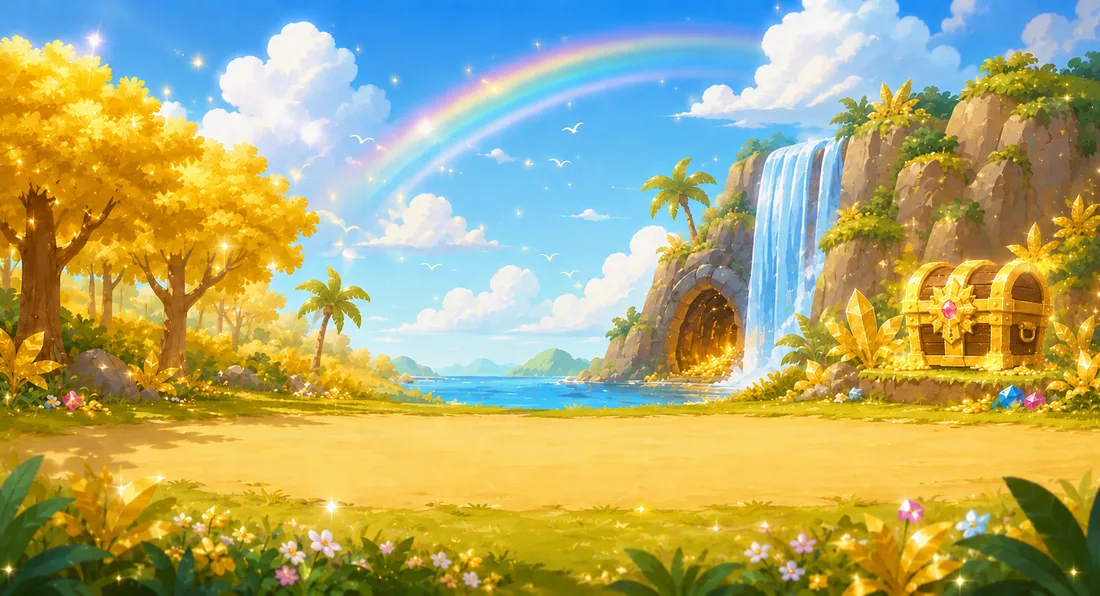
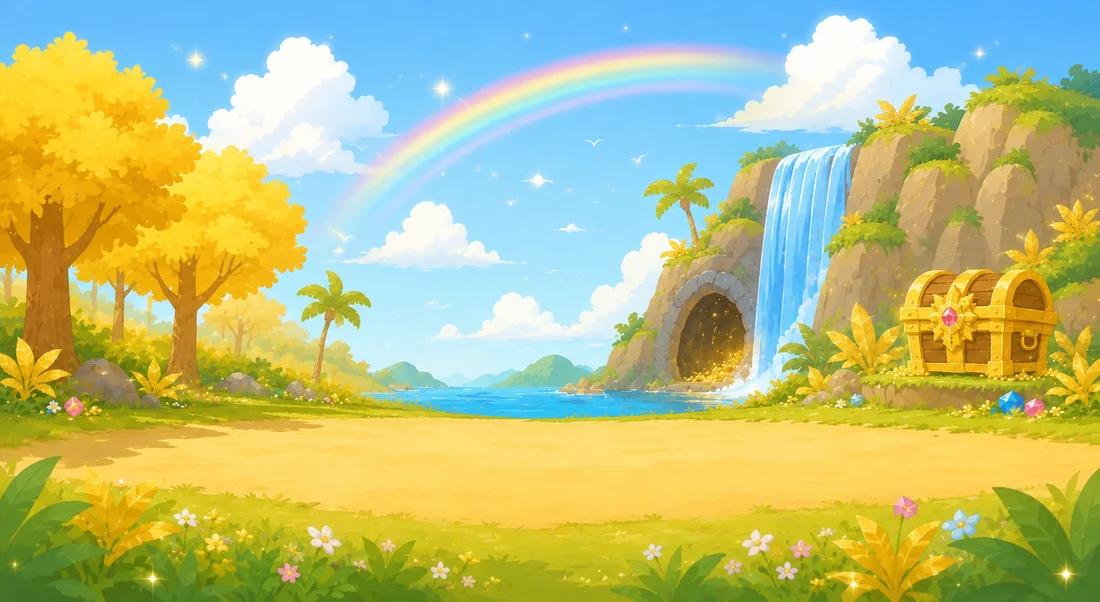
feat: 지도 이벤트 손님 3종(나비·거북이·무지개) — 그날만 나타남
- 사용자 원화 3장을 map-ev/ 로 탑재 (trim·halo 보정, 리사이즈 후 13~14KB)
- 지도 원화에 없는 손님이라 '평소엔 없다가 그 이벤트가 걸린 날에만' 그린다 (사용자 확정)
  긴 지도·짧은 지도 각각 자리(evImg) 지정 — 무지개는 하늘, 나비는 풀밭, 거북이는 해변
- 무지개는 동물이 아니라 👋 말풍선을 붙이지 않고 살랑이는 연출만
- 애니메이션은 위치를 건드리지 않는 전용 키프레임(amGuest·amGuestSky)으로 분리
  (기존 amWave는 말풍선용 translate가 들어 있어 그림에 쓰면 자리가 틀어진다)
- 이로써 이벤트 8종 전부 지도에 표현된다 (기존 5종은 원화에 그려진 동물 + 👋)

Claude-Session: https://claude.ai/code/session_018maNuYqDfFyRSe9uKpZhPR

diff --git a/src/components/AdventureMap.jsx b/src/components/AdventureMap.jsx
@@ -71,6 +71,13 @@ const mkPointAt = (PATH, ASPECT) => {
 };
 
 // 긴 지도 (854×1842, 양피지 보물지도) — 길 중심선 % 좌표: 오두막 계단 → 해변 보물상자 앞
+/* 그날만 나타나는 이벤트 손님 그림 (사용자 원화 2026-07-31 — 원본 art-src/map-ev/) */
+const EV_IMG = {
+  ev_rainbow: "assets/map-ev/rainbow.webp",
+  ev_butterfly: "assets/map-ev/butterfly.webp",
+  ev_turtle: "assets/map-ev/turtle.webp",
+};
+
 const MAP_LONG = {
   bg: "assets/adventure-map.webp",
   ar: "853 / 1844",
@@ -80,6 +87,9 @@ const MAP_LONG = {
   cdy: 5.5,         // 진행도 칩(🔒 n/N)을 상자 아래로 내리는 오프셋 (지도 높이 % — 상자 안 가리게)
   // 원화에 그려진 동물들의 머리 위 좌표 (%) — 랜덤 이벤트 날 👋 말풍선 자리 (그리드 실측)
   animals: { ev_parrot: [79, 16.5], ev_monkey: [79.5, 38.5], ev_toucan: [15, 62.5], ev_boar: [76, 63.5], ev_frog: [13.5, 73.5] },
+  /* [사용자 확정 2026-07-31] 지도 원화에 없는 손님 3종은 '그날만' 그려 넣는다.
+     [중심x%, 중심y%, 폭%] — 평소엔 아예 없다가 그 이벤트가 걸린 날에만 나타난다. */
+  evImg: { ev_rainbow: [64, 6, 30], ev_butterfly: [28, 23, 9], ev_turtle: [30, 92, 12] },
   yr: 1844 / 853,
   bw: 18, fs: 17,   // 건물 표시 폭(%)·이모지 크기 (사용자 조정: 자리 8곳 배치에 맞춰 30% 축소)
   fpk: 46,          // 발자국 개수 (경로 등간격) — 적을수록 간격이 넓어짐 (사용자 조정: 64→46)
@@ -132,6 +142,7 @@ const MAP_SHORT = {
   cdy: 6.5,         // 진행도 칩(🔒 n/N)을 상자 아래로 내리는 오프셋 (지도 높이 % — 상자 안 가리게)
   // 원화에 그려진 동물들의 머리 위 좌표 (%) — 랜덤 이벤트 날 👋 말풍선 자리 (그리드 실측)
   animals: { ev_parrot: [81, 15.5], ev_monkey: [79.5, 39.5], ev_toucan: [16, 63.5], ev_boar: [73.5, 65], ev_frog: [15, 75] },
+  evImg: { ev_rainbow: [62, 5.5, 31], ev_butterfly: [28, 24, 10], ev_turtle: [30, 91, 13] },
   yr: 1652 / 952,
   bw: 21, fs: 19,   // 짧은 지도 건물 크기 (사용자 조정: v8 세트에서 약간 더 축소 23→21)
   fpk: 36,          // 발자국 개수 (경로 등간격) — 적을수록 간격이 넓어짐 (사용자 조정: 50→36)
@@ -349,6 +360,10 @@ export default function AdventureMap({ items = [], mode = "today", charEmoji = "
           50%{transform:translate(calc(-50% + var(--dx)), var(--up)) scale(1) rotateY(540deg);opacity:1}
           100%{transform:translate(calc(-50% + var(--dx2)), 24px) scale(.7) rotateY(1080deg);opacity:0}
         }
+        /* 그날만 나타나는 손님(나비·거북이·무지개) — 감싼 div가 위치를 잡으므로
+           애니메이션은 위치를 건드리지 않고 위아래로만 살짝 움직인다 */
+        @keyframes amGuest{ 0%,100%{transform:translateY(0)} 50%{transform:translateY(-3px)} }
+        @keyframes amGuestSky{ 0%,100%{opacity:.92;transform:translateY(0) scale(1)} 50%{opacity:1;transform:translateY(-2px) scale(1.02)} }
         @keyframes amWave{
           0%,100%{transform:translate(-50%,-100%) translateY(0)}
           50%{transform:translate(-50%,-100%) translateY(-3px)}
@@ -527,6 +542,29 @@ export default function AdventureMap({ items = [], mode = "today", charEmoji = "
           {doneCount >= n ? "🔓" : "🔒"} {doneCount}/{n}
         </div>
       )}
+
+      {/* ── 랜덤 이벤트 — 지도에 없던 손님 (나비·거북이·무지개) ──
+             [사용자 확정] 평소엔 지도에 없다가 그 이벤트가 걸린 날에만 나타난다.
+             무지개는 동물이 아니라 👋 말풍선을 붙이지 않는다. ── */}
+      {eventId && M.evImg?.[eventId] && EV_IMG[eventId] && (() => {
+        const [ax, ay, aw] = M.evImg[eventId];
+        const wave = eventId !== "ev_rainbow";
+        return (
+          <div style={{ position: "absolute", left: `${ax}%`, top: `${ay}%`, width: `${aw}%`,
+            transform: "translate(-50%,-50%)", pointerEvents: "none", zIndex: 2 }}>
+            <img src={EV_IMG[eventId]} alt="" draggable={false}
+              style={{ width: "100%", display: "block",
+                animation: wave ? "amGuest 2.4s ease-in-out infinite" : "amGuestSky 4s ease-in-out infinite",
+                filter: "drop-shadow(0 2px 5px rgba(60,80,40,0.3))" }} />
+            {wave && (
+              <div style={{ position: "absolute", left: "50%", bottom: "100%", transform: "translateX(-50%)", marginBottom: 2,
+                background: "rgba(255,251,240,0.95)", border: "1px solid rgba(155,114,74,0.4)",
+                borderRadius: 999, padding: "2px 6px", fontSize: 11, lineHeight: 1.3, whiteSpace: "nowrap",
+                boxShadow: "0 2px 5px rgba(60,80,40,0.25)" }}>👋</div>
+            )}
+          </div>
+        );
+      })()}
 
       {/* ── 랜덤 이벤트 — 오늘 만난 동물 머리 위 👋 말풍선 (사용자 확정) ──
              이벤트는 날짜 고정 시드라 하루 종일 같은 동물이 인사한다. 발견 여부와

diff --git a/src/data/expeditions.js b/src/data/expeditions.js
@@ -220,7 +220,7 @@ export const EXPEDITIONS = {
     /* Ch12 보물섬 — 섬 안 모랫길을 지나 보물상자로. 배경이 육지라 배 대신 육상·하늘 탈것 */
     mounts:["horse","deer","unicorn","dragon","owl","carpet"],
     pose:"walk", item:"map", goal:"🎁", goalImg:"assets/expedition/flag/yellow.webp",   // 보물 = 별 깃발
-    bgImg:"assets/expedition/bg-treasure.webp",   // 사용자 배경 원화 (황금 보물섬·무지개·폭포 — 원본 art-src)
+    bgImg:"assets/expedition/bg-treasure.webp",   // 사용자 배경 원화 v2 (넓은 모랫길·무지개·동굴 폭포 — 원본 art-src)
     scene:{ sky:["#7EC8F0","#D9EFB0"], ground:["#EBD188","#D6B863"], groundH:34,
       /* 앞쪽 모랫길을 따라 왼쪽 황금나무 아래에서 오른쪽 보물상자 쪽으로 (살짝 오르막) */
       /* 탈것 그림이 가로로 넓어 x0/xi를 안쪽으로 (왼쪽 끝에서 잘리지 않게) */

diff --git a/art-src/README.md b/art-src/README.md
@@ -166,8 +166,11 @@ halo가 외곽선을 흐려서 생긴 착시였다.
 | expedition/bg/bg-cave-v2-src.webp | 동굴 배경 v2 (1717×916 — 권장 비율로 재제작, 출구 아치 안전영역 안, 현행) | expedition/bg-cave.webp |
 | expedition/bg/bg-meadow-src.webp | 초원 배경 (9번째 탐험 '초원을 달리자!' — 양·풍차) | expedition/bg-meadow.webp |
 | expedition/bg/bg-skyisle-src.webp | 하늘섬 배경 (1717×916 — 성 있는 부유섬·열기구·무지개, 10번째 탐험 현행) | expedition/bg-skyisle.webp |
+| map-ev/butterfly-src.webp | 지도 이벤트 손님 나비 — 이벤트 날에만 지도에 나타남 (ev_butterfly) | map-ev/butterfly.webp |
+| map-ev/turtle-src.webp | 지도 이벤트 손님 거북이 — 이벤트 날에만 지도에 나타남 (ev_turtle) | map-ev/turtle.webp |
+| map-ev/rainbow-src.webp | 지도 이벤트 손님 무지개 — 이벤트 날에만 지도 하늘에 나타남 (ev_rainbow, 👋 없음) | map-ev/rainbow.webp |
 | expedition/bg/bg-snow-src.webp | 설원 배경 (1717×916 — 오로라·눈사람·통나무집·얼음 호수, 8번째 탐험) | expedition/bg-snow.webp |
-| expedition/bg/bg-treasure-src.webp | 보물섬 배경 (1704×923 — 황금나무·폭포·무지개·보물상자, 유적 CSS 임시 배경 대체) | expedition/bg-treasure.webp |
+| expedition/bg/bg-treasure-v2-src.webp | 보물섬 배경 v2 (1695×928 — 넓은 모랫길·무지개·동굴 폭포, v1 교체 현행) | expedition/bg-treasure.webp |
 | expedition/bg/bg-space-src.webp | 우주 배경 (1717×916 — 왼쪽 발사대→오른쪽 우주기지·은하수 띠, 11번째 탐험) | expedition/bg-space.webp |
 | expedition/bg/bg-sea-src.webp | 바다 배경 (1672×941 — 수평선 위 보물섬·갈매기, 6번째 탐험) | expedition/bg-sea.webp |
 | expedition/bg/bg-desert-src.webp | 사막 배경 (1717×916 — 오아시스·유적 아치·사막여우, 5번째 탐험) | expedition/bg-desert.webp |
